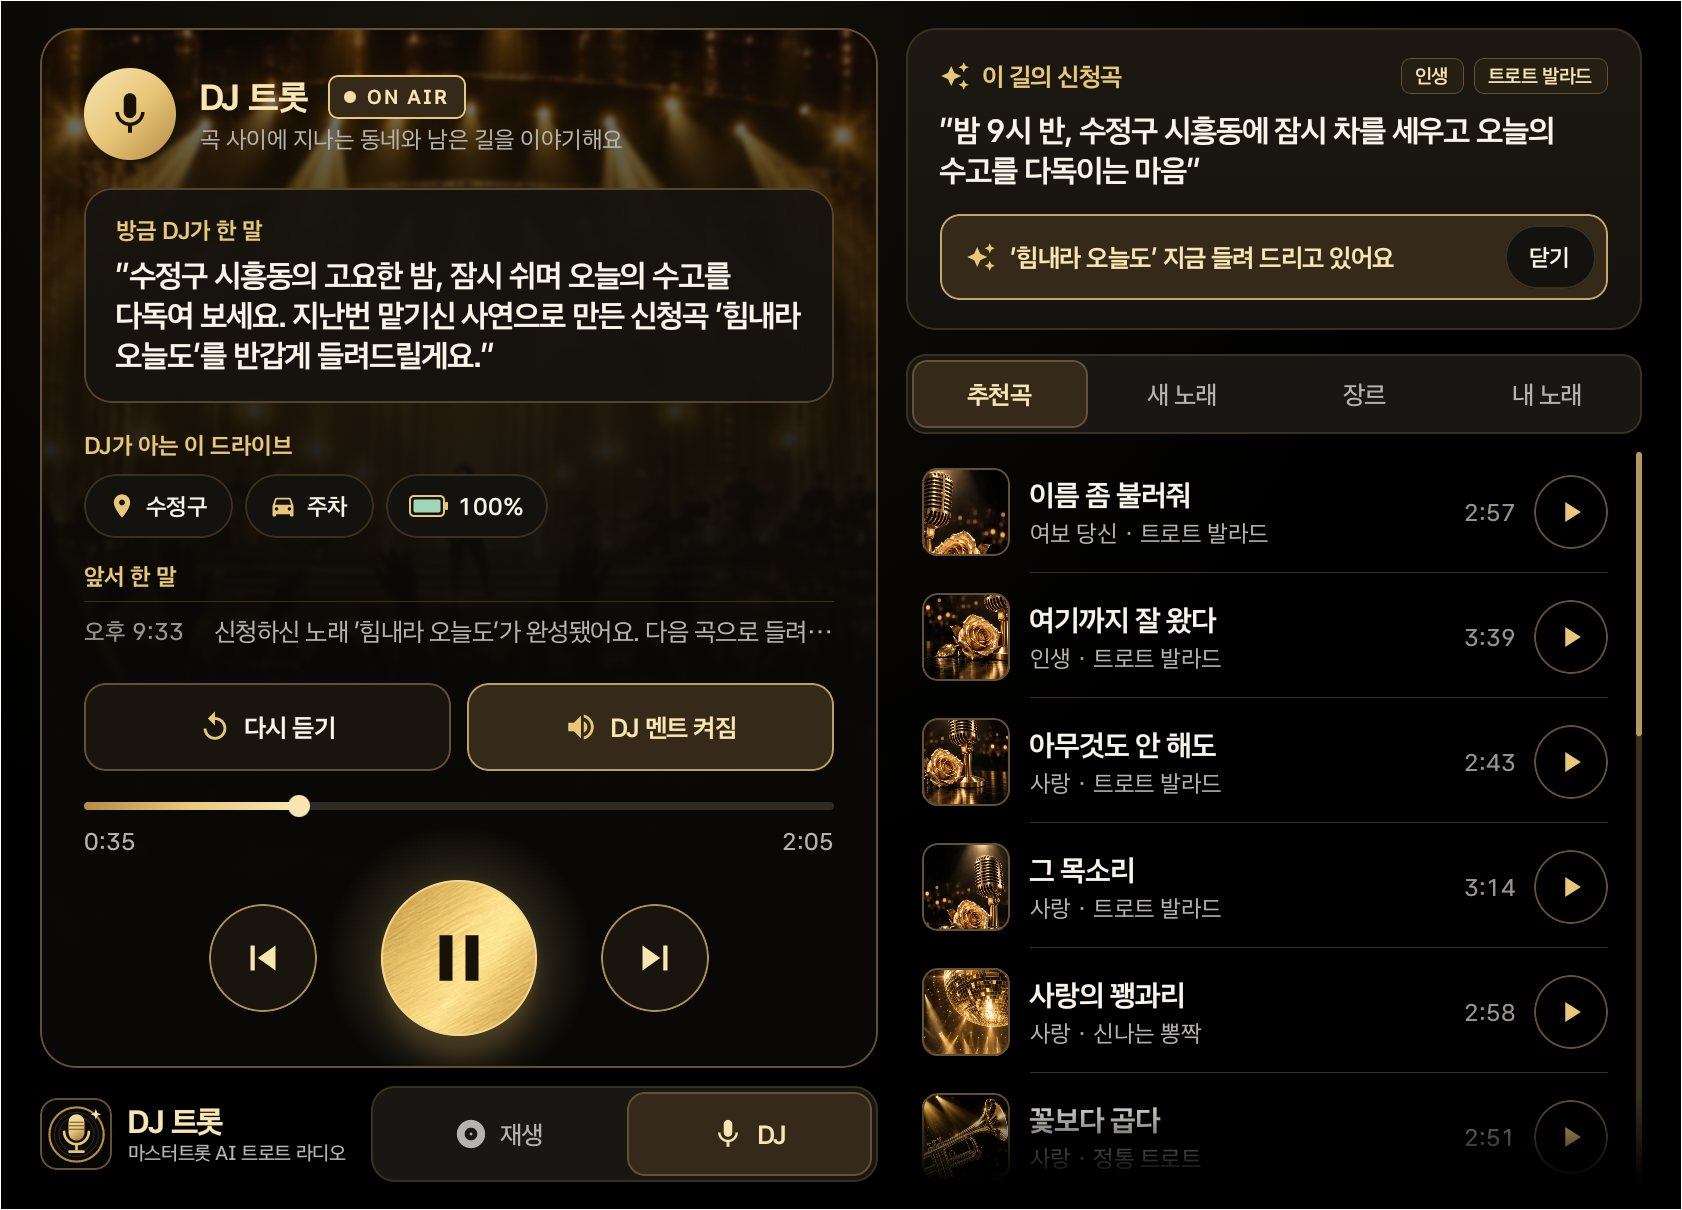
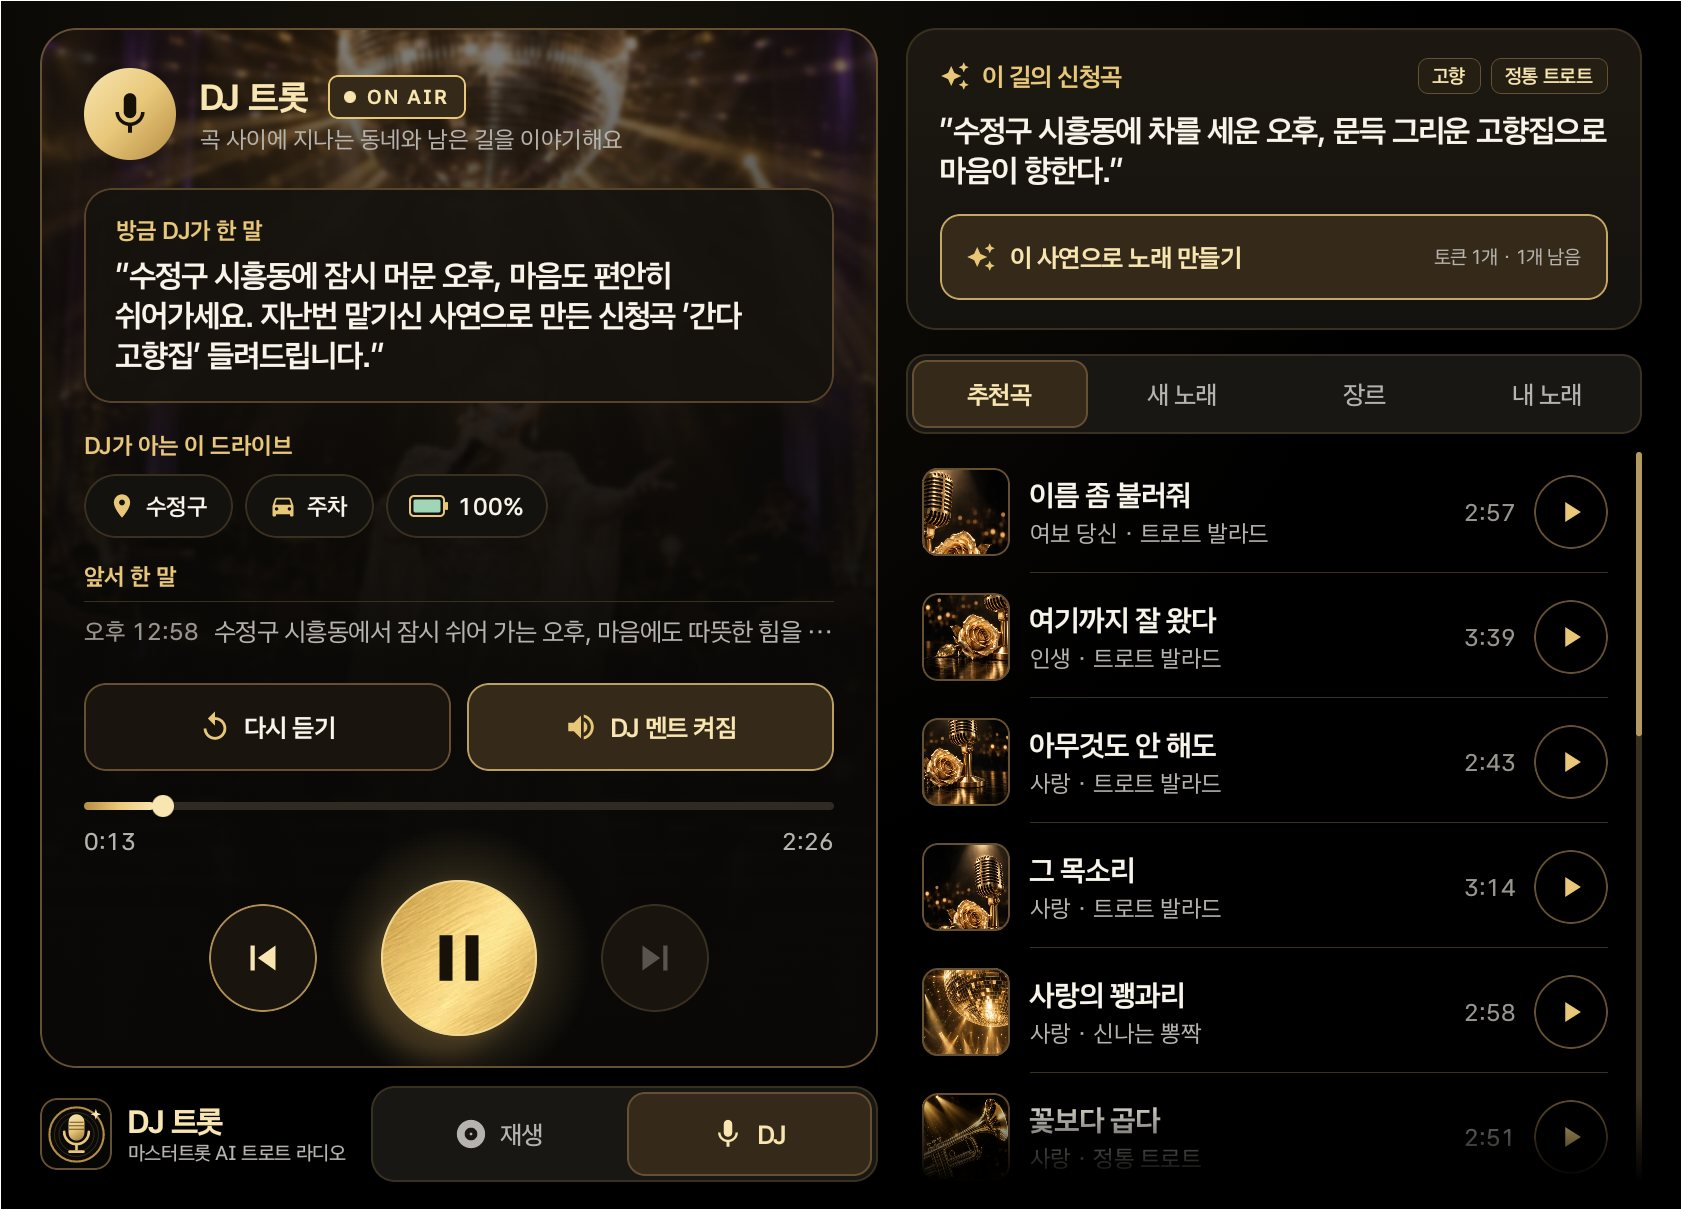
feat(ui): drop eyebrow labels above stage titles
The small gold line above the song title and the idle headline
repeated what the stage already shows. Without it the title leads.
The queue position it carried is no longer read, so PlayerUi drops it.
The README screenshots are retaken to match.

diff --git a/app/src/main/java/ai/reopt/djtrot/ui/DjScreen.kt b/app/src/main/java/ai/reopt/djtrot/ui/DjScreen.kt
@@ -424,11 +424,6 @@ private fun StagePanel(view: Section, m: StageModel, player: Player?, modifier: 
 @Composable
 private fun StageIdle(player: Player?, modifier: Modifier) {
     Column(modifier, verticalArrangement = Arrangement.Bottom) {
-        Row(verticalAlignment = Alignment.CenterVertically, horizontalArrangement = Arrangement.spacedBy(12.dp)) {
-            Icon(DjIcons.Sparkle, contentDescription = null, tint = DjColors.Gold, modifier = Modifier.size(32.dp))
-            Text("오늘의 드라이브 DJ", style = body(DjType.BodyS, DjColors.Gold, FontWeight.Bold))
-        }
-        Spacer(Modifier.height(18.dp))
         Text("이 길에 어울리는\n트로트를 틀어 드릴게요", style = headline(DjType.HeadlineL))
         Spacer(Modifier.height(16.dp))
         Text("곡 사이사이 DJ가 지금 지나는 동네와 남은 길을 이야기해요.", style = body(DjType.BodyS, DjColors.Muted))
@@ -456,12 +451,6 @@ private fun PlayView(m: StageModel, modifier: Modifier) {
             CoverWithRecord(ui)
             Spacer(Modifier.width(26.dp))
             Column(Modifier.weight(1f)) {
-                Row(verticalAlignment = Alignment.CenterVertically, horizontalArrangement = Arrangement.spacedBy(14.dp)) {
-                    Equalizer(ui.playing, height = 26.dp)
-                    Text("지금 무대", style = body(DjType.LabelM, DjColors.Gold, FontWeight.Bold))
-                    if (ui.count > 1) Text("${ui.position} / ${ui.count}", style = digits(DjType.LabelM, DjColors.Faint))
-                }
-                Spacer(Modifier.height(14.dp))
                 AnimatedContent(
                     targetState = ui.title.orEmpty(),
                     transitionSpec = { (fadeIn(tween(350)) + slideInVertically(tween(350)) { it / 4 }) togetherWith fadeOut(tween(200)) },

diff --git a/app/src/main/java/ai/reopt/djtrot/ui/PlayerUi.kt b/app/src/main/java/ai/reopt/djtrot/ui/PlayerUi.kt
@@ -28,9 +28,6 @@ data class PlayerUi(
     val hasItems: Boolean = false,
     val hasNext: Boolean = false,
     val hasPrevious: Boolean = false,
-    /** 대기열 안의 위치(1부터)와 전체 곡 수. */
-    val position: Int = 0,
-    val count: Int = 0,
     val nextSongId: String? = null,
     val nextTitle: String? = null,
     val nextSinger: String? = null,
@@ -57,8 +54,6 @@ private fun Player?.toUi(): PlayerUi {
         hasItems = player.mediaItemCount > 0,
         hasNext = player.hasNextMediaItem(),
         hasPrevious = player.hasPreviousMediaItem(),
-        position = if (player.mediaItemCount > 0) player.currentMediaItemIndex + 1 else 0,
-        count = player.mediaItemCount,
         nextSongId = next?.extras?.getString(Catalog.EXTRA_SONG_ID),
         nextTitle = next?.title?.toString(),
         nextSinger = next?.artist?.toString(),
